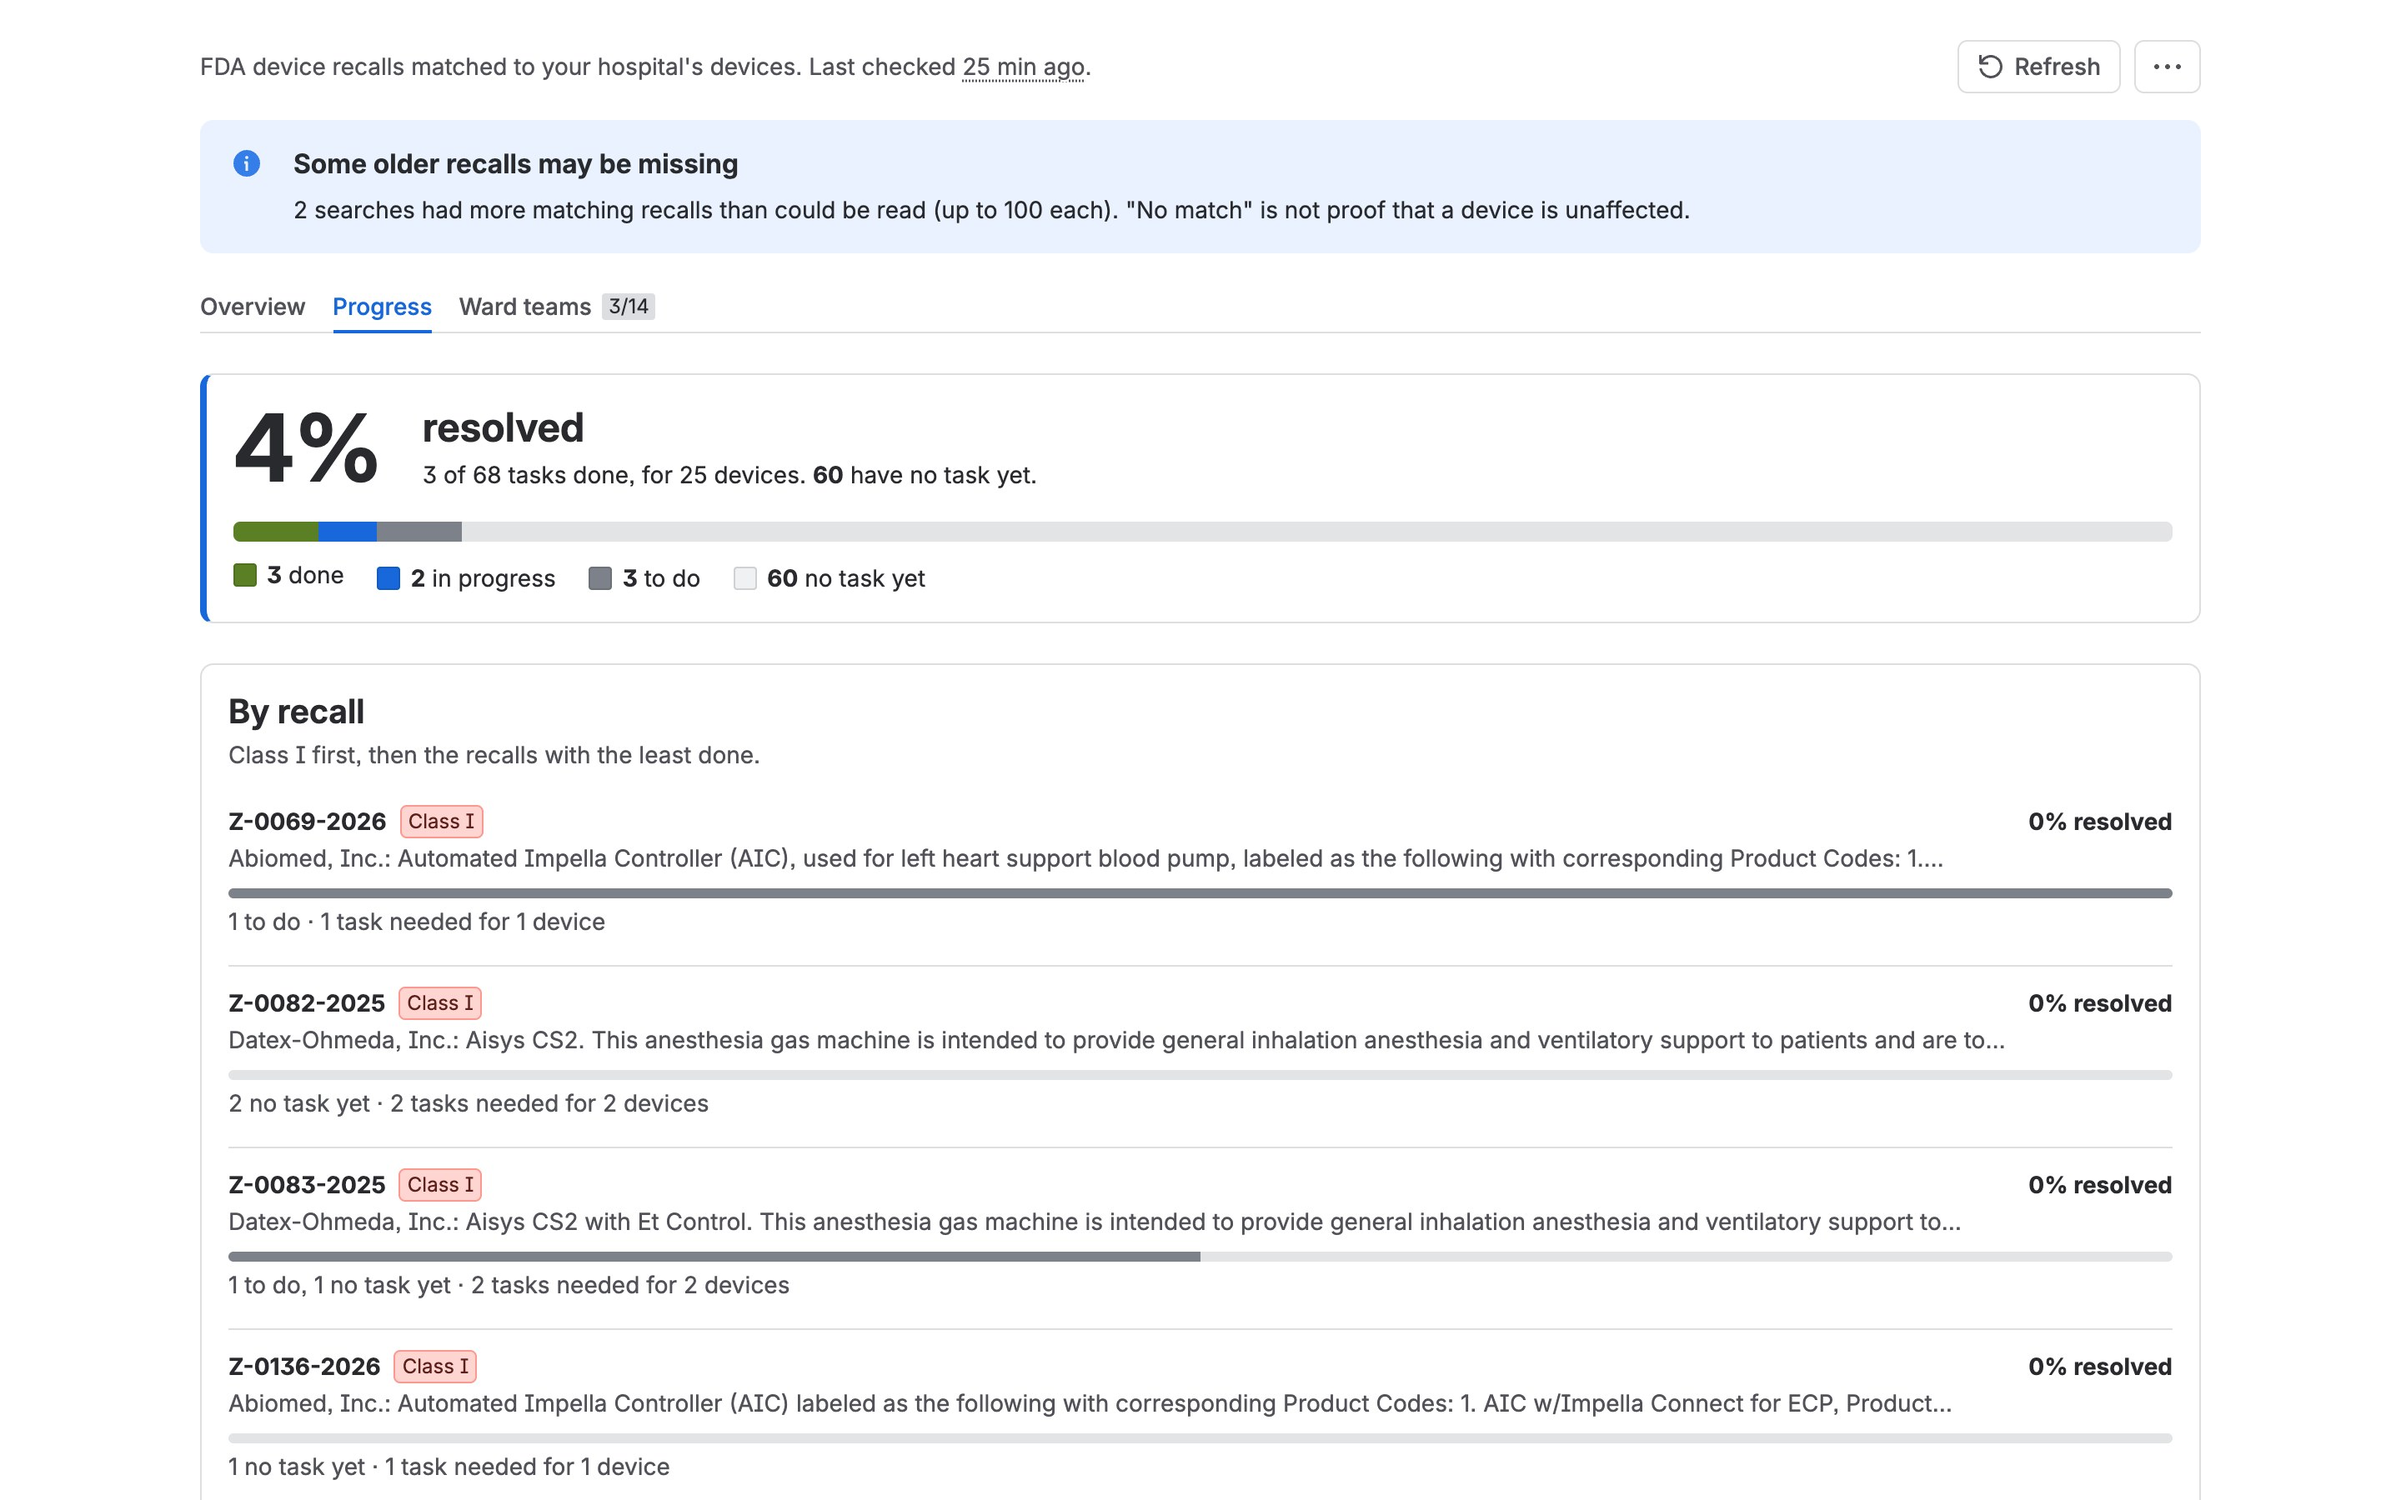
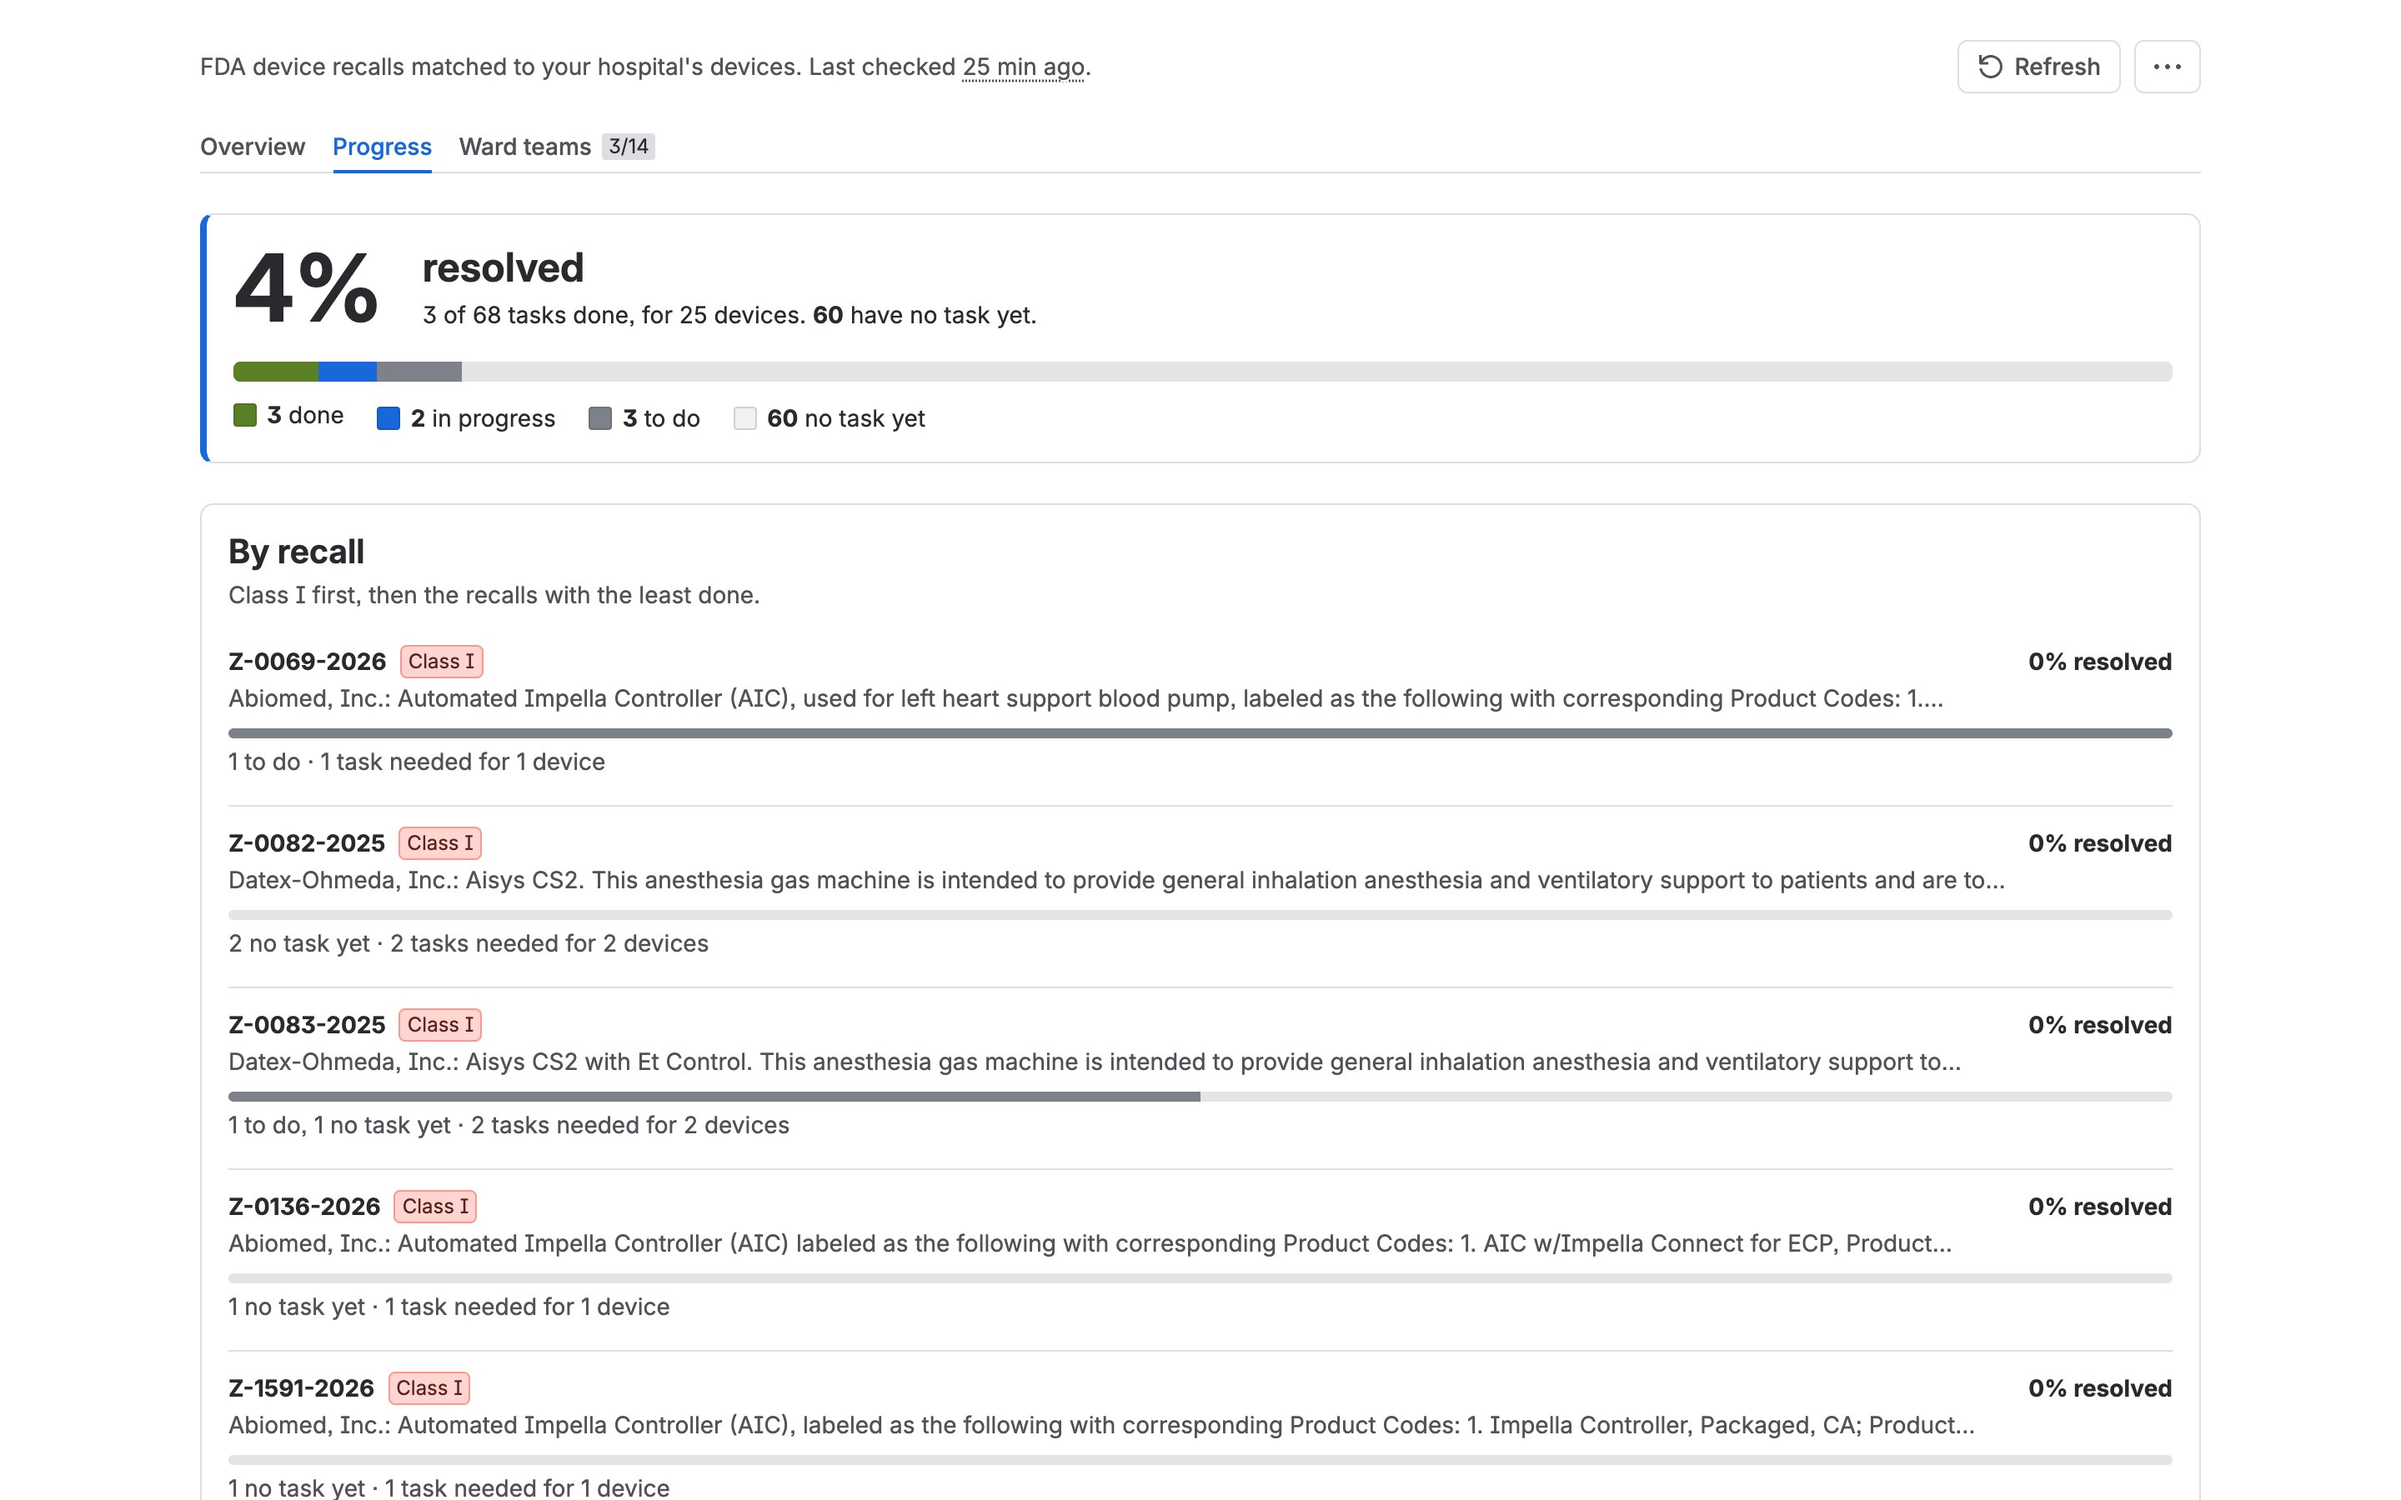
Regenerated screenshots, docs for routing, Assets import, head-to-head; verification notes

Changed region(s): [[0.0625, 0.0933, 0.9062, 1.0]]

diff --git a/docs/VIDEO_SCRIPT.md b/docs/VIDEO_SCRIPT.md
@@ -34,7 +34,7 @@ Demo site `one-atlas-gykz.atlassian.net`, the **development** app (it has the de
 | **0:20-0:50** | Jira, left sidebar **Apps**, **RecallRadar**. The first-run screen shows three steps. Click **Load demo hospital**. A bar appears: "Checked N of M FDA searches". | "RecallRadar is a Forge app. I load a demo hospital: thirty devices with real manufacturer and model names. It now checks them against three years of FDA recalls, in the background, so I can keep working." |
 | **0:50-1:30** | The check takes about 35 seconds on the live site; start it before the take and record the saved result. The dashboard appears. Point at the red headline "N devices need action", then the line under it, then the **Do this first** list. Hover the badges **Class I** and **Exact match**. | "About twenty-five devices need action, eleven with a Class I recall (read the real numbers off the screen), the most serious. Every match says how sure it is. Exact: the maker, the model and the serial number are all in the recall. Likely: the product matches, check the unit. Possible: only a related product, so no task. The most urgent are listed first." |
 | **1:30-2:15** | Click **Impella Controller** in Do this first. The drawer opens. Click the first recall row (**Z-0208-2027**) to open it. Scroll to the reason text. Close the drawer (**X**). | "Why? Here is the recall, what the FDA says is wrong, and the reason we matched it: this serial number is listed. We measured the matcher on about 3,400 real labeled pairs: it never called a device exact when it was not, and nothing that needs a task was missed. It also copes with a thousand-device list: I pasted one and it checked in under a minute. The numbers and the misses are published." |
-| **2:15-2:50** | In **Do this first** the project box reads **Mobile Dev (MOBL)**. Click **Create all N tasks...** (60 in the screenshots; it follows today's data). The window asks "Create N tasks?": read it, click **Create N tasks**. A bar counts "n of N tasks created"; the window cannot be closed until it ends. When the green note says the tasks were created, open the MOBL board (Jira search `labels = recallradar`) and open one issue. | "One click creates a Jira task for each affected device and recall, in the project I chose, due by the recall's class: two days for Class I. Never twice for the same pair. The window cannot be closed halfway. Each task carries the reason and a link to the FDA record." |
+| **2:15-2:50** | In **Do this first** the project box reads **Mobile Dev (MOBL)**. Click **Create all N tasks...** (68 in the screenshots; it follows today's data). The window asks "Create N tasks?": read it, click **Create N tasks**. A bar counts "n of N tasks created"; the window cannot be closed until it ends. When the green note says the tasks were created, open the MOBL board (Jira search `labels = recallradar`) and open one issue. | "One click creates a Jira task for each affected device and recall, in the project I chose, due by the recall's class: two days for Class I. Never twice for the same pair. The window cannot be closed halfway. Each task carries the reason and a link to the FDA record." |
 | **2:50-3:20** | Top bar **Ask Rovo**. Pick **RecallRadar Assistant**. Type: **Which Cath Lab devices have open Class I recalls?** Wait for the answer. Then type: **Explain the most urgent one in plain English**. | "The same data is a Rovo agent. It answers only from the saved check, so it never invents a recall number, and every answer lists the numbers it may quote. Asking it to create tasks shows a preview first, and creates exactly what I confirm." |
 | **3:20-3:55** | **Rehearse this one: it has not been run end to end.** Switch to **Claude Desktop**. The **recallradar** connector is listed (plug icon). Type: **Are any of our infusion pumps recalled?** Click **Allow** when Claude asks to call the tool. Read the answer. | "And it is an MCP server. In Claude Desktop, with an admin's approval and my own sign-in, I ask about our infusion pumps. Claude calls RecallRadar's tools and answers with real FDA recall numbers and our device ids. It can create one task as me, and never assigns anyone." |
 | **3:55-4:10** | Back in Jira, **Ward teams** tab. Choose a team for **Cath Lab**. Open a device in Cath Lab, click **Who handles this ward**. (If the graph is not permitted for this account, **cut this scene** and say the last sentence over the drawer.) | "RecallRadar reads teams and people from the Teamwork Graph, read-only, to say who handles a ward and how busy they are. Nobody is assigned unless you choose it." |

diff --git a/docs/VERIFICATION.md b/docs/VERIFICATION.md
@@ -25,3 +25,9 @@ The honest list, by date. Back to the [README](../README.md).
 - **Verified, with fakes and real recall text:** two writers never overlap under the lock and an expired lock is taken over; an alert record that cannot be read writes nothing (the baseline is never reset); two requests for one task pair create one task; a saved check of 1,500 matches round-trips through its parts, a stale part is never read, an old one-record result still reads; a 1,000-row import writes only what changed and the same list in another order keeps every id; the per-product and exclusion rules are measured on 48 real recalls ([`docs/ACCURACY.md`](ACCURACY.md)); the preview (148 screens, no violation) and the jsdom smoke test cover the new dashboard order, the Daily alerts dialog with its reasons, and the create-all progress and its closed dialog. Code-only versions are deployed to both environments (development 16.4.0, production 4.4.0).
 - **Found by three independent technical reviews of this state, and fixed:** a new saved check overwrote the parts of the old one in place, so a reader could mix the two (parts now carry a generation id); a lock whose holder crashed depended on the storage expiring the key (the lock now carries its own expiry); a read error while changing a ward's team dropped every other ward's team (the change now stops); texts such as "lots 12345 are not affected" or "all units from lot 12345" gave *exact* (they stay *likely*); "Dräger" and "Draeger" were different makers (letters with marks are folded); the first-run screen said "a year" for a three-year look-back and left UDI-DIs out of what is sent to the FDA. Their other findings are limits, now written down where they belong: the accuracy set is developer-labelled and mostly trivial negatives, retrieval is not measured, makers have no alias list, and a 1,000-device list plans on the order of 120 to 400 searches that were never run.
 - **Not verified live:** the lock against real Forge storage. The code Forge gives for "key already exists" was not seen; a refusal with status 409 or 412, or with the words *exists*, *already* or *conflict*, is read as "held", and any other refusal runs the work unlocked, as before the lock existed, with a warning in the log. A saved check larger than one storage value (the demo hospital's is far smaller, so the parts have only been exercised against the fake storage), how long a 1,000-row import takes on a real site, and the dashboard itself (the DNS problem above).
+
+## The 19 Nov 2026 additions (not yet verified live)
+
+- **Built and tested offline (840+ unit tests, the jsdom smoke test, 148 preview screens clean under Forge's content policy):** the keyword-search baseline and head-to-head, ruling out a unit the recall itself excludes, team routing and escalation of tasks, a read-only JSM Assets import, the manifest-scope test, the primitives-based hero, urgent rows and pager, the Rovo list grouped by device.
+- **Deployed to the development environment (17.0.0) and the demo site upgraded with the five new scopes. Not verified live:** the panel did not load in the browser because this machine's DNS refused Forge's CDN host again (see the note in the project instructions), so team routing, the Assets import and the new look have not been seen on a real site. **Not deployed to production** for that reason: production still runs the version verified on 18 Nov.
+- Reports on the Forge community say Assets calls through `requestJira` sometimes answer 401 despite the scopes; if that happens here the dialog says so and pasting still works.

diff --git a/README.md b/README.md
@@ -6,7 +6,7 @@ A Forge app for hospital teams. It compares **FDA medical device recalls** ([ope
 
 ![The RecallRadar dashboard: about 25 of the 30 demo devices need action, the most urgent first](marketplace/screenshots/01-dashboard-overview-light.jpg)
 
-*Screenshots are generated from the app with invented demo data (25 devices, 60 tasks). On a live site the counts follow the day's FDA data: the production demo showed 26 devices on 18 Nov.*
+*Screenshots are generated from the app with invented demo data (25 devices, 68 tasks). On a live site the counts follow the day's FDA data: the production demo showed 26 devices on 18 Nov.*
 
 It runs as a Jira dashboard and issue panel, as a **Rovo agent**, as **MCP tools** for other agents, and it reads **teams from the Teamwork Graph** (read-only) to say who handles a ward.
 
@@ -22,7 +22,7 @@ It runs as a Jira dashboard and issue panel, as a **Rovo agent**, as **MCP tools
 
 Needs from a judge: Jira administrator rights; **Ward teams** needs you to be in a team; **Confluence pages** need the optional connection; **MCP** needs an admin to switch the app's tools on ([steps](docs/mcp-demo.md)).
 
-**Known limits, up front.** Devices come from the demo, a pasted spreadsheet or a read-only JSM Assets object type, not a CMMS. Accuracy was measured on recalls and labels the author wrote, not on a real hospital ([ACCURACY](docs/ACCURACY.md)). The app calls api.fda.gov, so it is not eligible for "Runs on Atlassian". The MCP connection from Claude Desktop has not been run end to end. Full list: [what was and was not verified](docs/VERIFICATION.md).
+**Known limits, up front.** Devices come from the demo, a pasted spreadsheet or a read-only JSM Assets object type (the Assets import is code- and unit-tested; see [verification](docs/VERIFICATION.md) for whether it has been run live), not a CMMS. Accuracy was measured on recalls and labels the author wrote, not on a real hospital ([ACCURACY](docs/ACCURACY.md)). The app calls api.fda.gov, so it is not eligible for "Runs on Atlassian". The MCP connection from Claude Desktop has not been run end to end. Full list: [what was and was not verified](docs/VERIFICATION.md).
 
 ## Where things are
 

diff --git a/docs/FEATURES.md b/docs/FEATURES.md
@@ -157,3 +157,12 @@ They are the same tools as the in-Jira agent, so they read the **saved recall ch
 The tools can be added to agents you build in Rovo Studio, with no setup beyond installing the app.
 
 Step by step for Claude Desktop, Claude Code, Cursor and others: [`docs/MCP.md`](MCP.md).
+
+
+## Importing devices from JSM Assets (read-only)
+
+**...** menu, **Import devices**, **Read from JSM Assets**: pick a schema and an object type; RecallRadar reads the objects as you (Assets' own permissions apply; nothing is ever written to Assets), matches the attribute names (Manufacturer, Model Number, Serial Number, Location, UDI-DI, ...) to its own fields the way a spreadsheet's column names are matched, shows the same preview as a paste, and imports through the same all-or-nothing path (up to 1,000 devices, stable device ids, replaces the earlier import, leaves the demo hospital alone). Code: `src/assets.js`; scopes `read:cmdb-object:jira`, `read:cmdb-schema:jira`, `read:cmdb-type:jira`, `read:cmdb-attribute:jira` and `read:servicedesk-request` (for the Assets workspace id). A site without Assets, or a person without view access, gets one plain sentence and can paste instead.
+
+## The head-to-head with a keyword search
+
+The dashboard's **How much better than a keyword search?** section, `docs/ACCURACY.md` and the README quote the same numbers (`npm run eval` writes them; `npm test` fails when they are stale): on 3,438 labeled pairs a plain maker-or-model keyword search is 57% precise and finds 57% of the devices that need a task; RecallRadar is 100% and 100% on the same pairs, with the caveat that the labels are the developer's.
